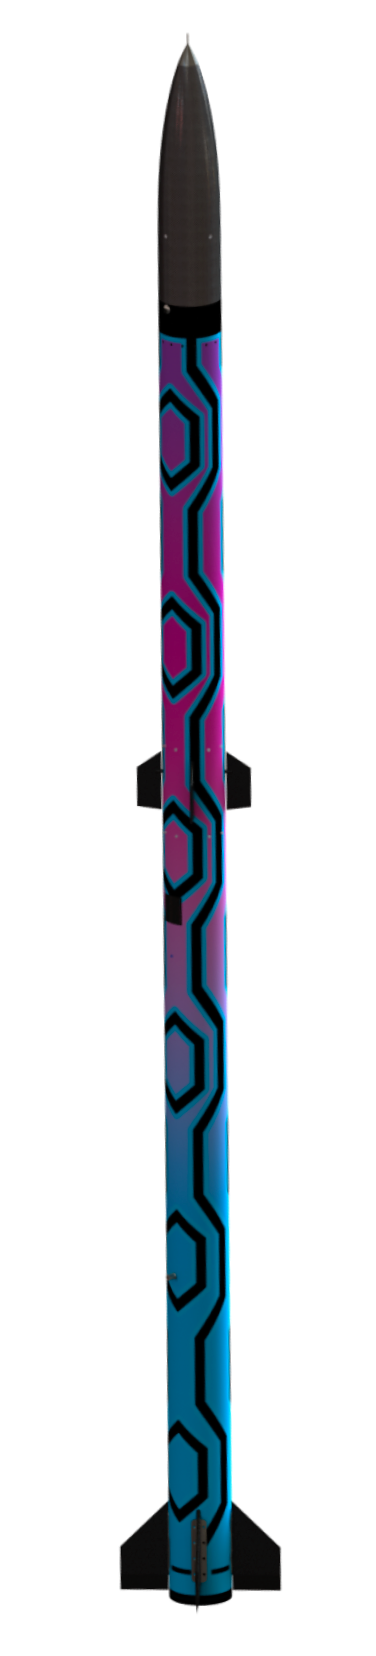
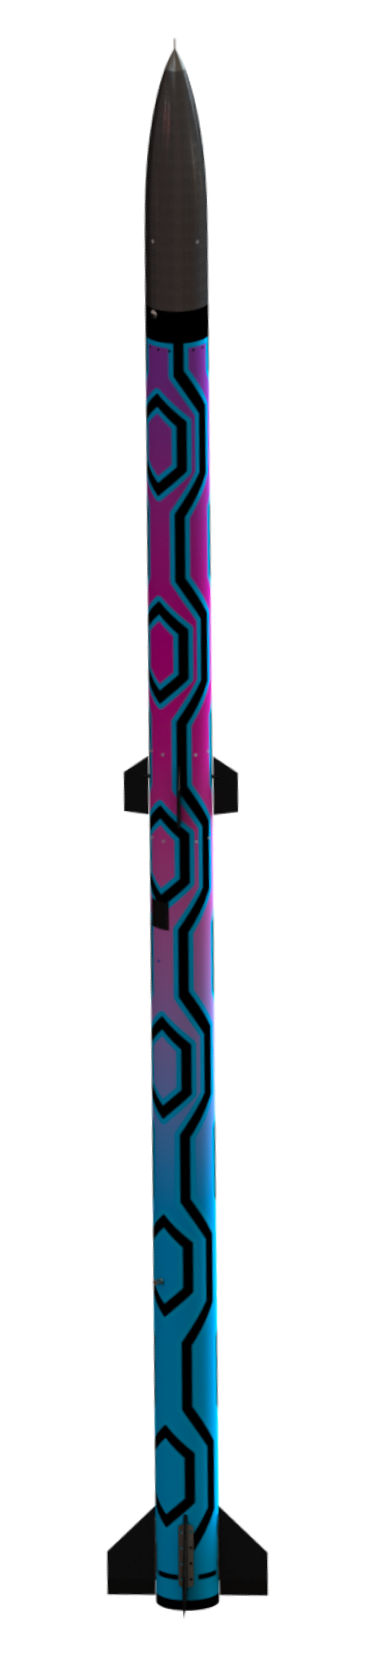
display fix (#13)

Changed region(s): [[0.2633, 0.0308, 0.7606, 0.9855]]

diff --git a/src/components/rocket-panel/RocketPanel.tsx b/src/components/rocket-panel/RocketPanel.tsx
@@ -14,7 +14,6 @@ interface IProps {
 export default function RocketPanel(props: IProps) {
     return(
         <div className={styles.panelContainer}>
-            <img src={props.image} className={styles.rocketImage} alt={props.rocket} />
             <div className={styles.panelWrapper}>
                 <div className={styles.rocketTitle}>
                     {props.rocket}
@@ -27,6 +26,7 @@ export default function RocketPanel(props: IProps) {
                 </div>
                 <RocketSpecs length={props.length} thrust={props.thrust} weight={props.weight} velocity={props.velocity}/>
             </div>
+            <img src={props.image} className={styles.rocketImage} alt={props.rocket}/>
         </div>
     );
 }

diff --git a/src/components/rocket-panel/assets/rocket-panel.module.scss b/src/components/rocket-panel/assets/rocket-panel.module.scss
@@ -2,8 +2,9 @@
 @import '../../../../src/scss/fonts.module';
 
 .panelContainer {
-  display: grid;
-  grid-template-columns: 5% 65% 30%;
+  display: flex;
+  justify-content: center;
+  align-items: center;
   width: 100%;
   height: 100%;
 
@@ -14,6 +15,11 @@
     flex-direction: column;
     align-items: flex-start;
     justify-content: flex-start;
+    width: 70%;
+
+    @include breakpoint-md {
+      margin-left: 40px;
+    }
 
     .rocketTitle {
       font-family: $beVietnamPro;
